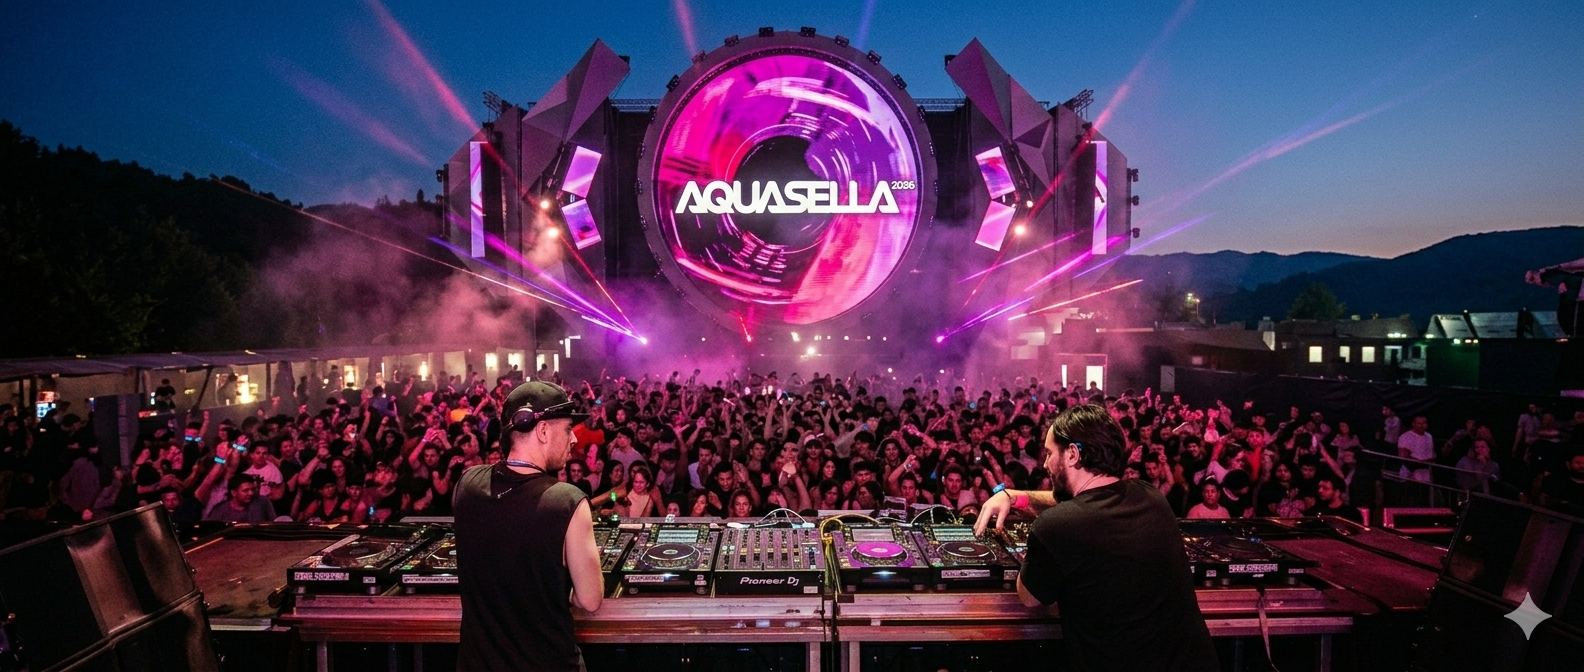
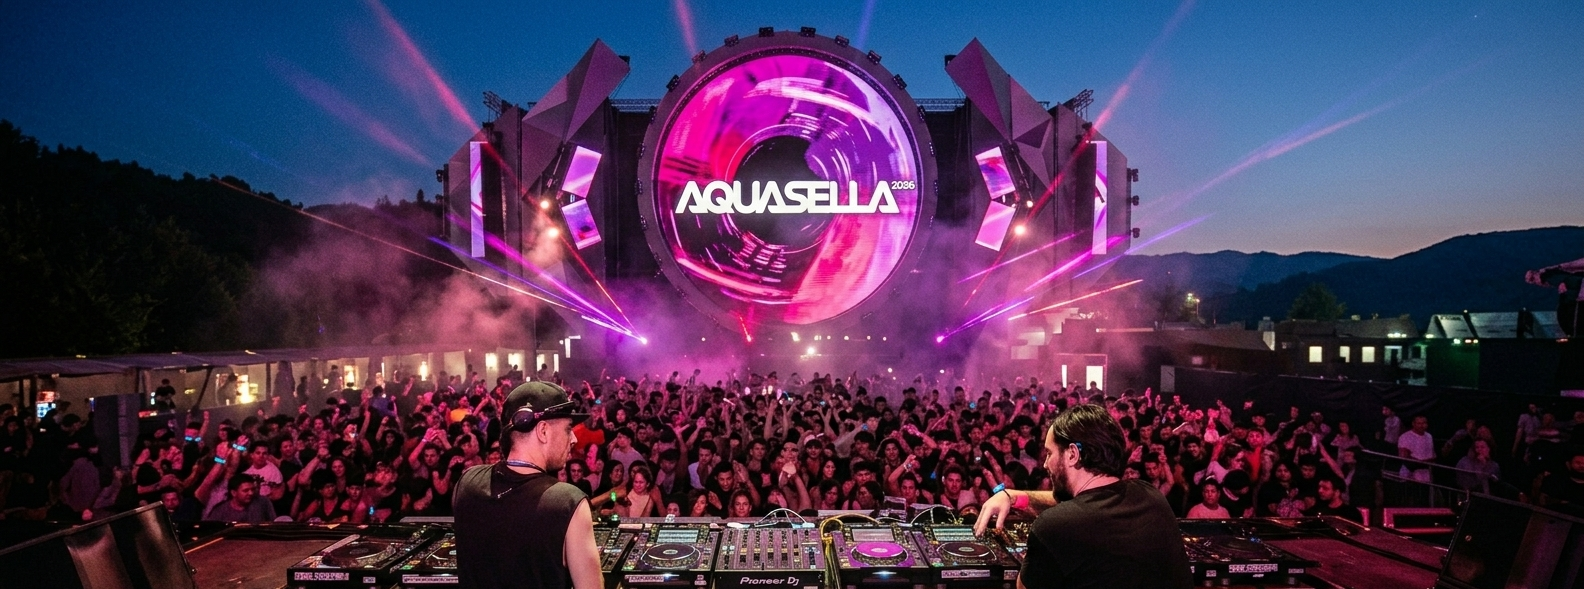
actualizar contenido y estilos para la sección del evento Aquasella 2026

diff --git a/Lenguaje de marcas/evento-aquasella.html b/Lenguaje de marcas/evento-aquasella.html
@@ -3,14 +3,17 @@
 <head>
     <meta charset="UTF-8">
     <meta name="viewport" content="width=device-width, initial-scale=1.0">
-    <title>HAPPINESS&Co - Contacto</title>
+    <title>HAPPINESS&Co - Aquasella 2026</title>
     <link rel="stylesheet" href="styles.css">
 </head>
 <body>
+
     <header class="cabecera-principal">
         <div class="contenedor-cabecera">
             <div class="logotipo">
-                <a href="index.html"><img src="assets/happines-co-blanco-rosa.jpg" alt="Logo"></a>
+                <a href="index.html">
+                    <img src="assets/happines-co-blanco-rosa.jpg" alt="Logo">
+                </a>
             </div>
             <nav class="navegacion">
                 <ul>
@@ -24,9 +27,57 @@
         </div>
     </header>
 
+    <main class="seccion-detalle-evento">
+        <div class="contenedor-principal">
+            
+            <div class="columna-contenido">
+                <h2 class="titulo-seccion">Aquasella 2026</h2>
+                
+                <div class="contenedor-imagen-principal">
+                    <img src="assets/aquasella.png" alt="Aquasella Festival" class="imagen-grande-evento">
+                </div>
+
+                <div class="texto-informativo">
+                    <h3>Sobre el Festival</h3>
+                    <p>Aquasella nació en 1997 en Arriondas impulsado por La Real Producciones para crear un espacio de electrónica en el norte de España. Lo que empezó como un evento pequeño creció hasta ser uno de los festivales más importantes de Europa con identidad propia. Ha mantenido una línea artística coherente que mezcla artistas nacionales e internacionales siguiendo la evolución del género durante casi tres décadas en un entorno natural singular. Con el tiempo pasó a ser un festival de gran escala con una comunidad fiel de miles de asistentes de distintos países. </p>
+                    <p>En 2026 celebra su 29ª edición consolidado por el éxito de sus últimos sold out y una trayectoria basada en la experiencia y la pasión por la música electrónica, siendo hoy un punto donde conviven historia y futuro.</p>
+                </div>
+            </div>
+
+            <aside class="columna-ficha-tecnica">
+                <div class="tarjeta-resumen-compra">
+                    <h3 class="titulo-info-extra">Detalles del Evento</h3>
+                    <hr class="separador-detalle">
+                    
+                    <div class="dato-ficha">
+                        <p class="etiqueta-ficha">FECHA</p>
+                        <p class="valor-ficha">20 MAY - 24 MAY 2026</p>
+                    </div>
+
+                    <div class="dato-ficha">
+                        <p class="etiqueta-ficha">UBICACIÓN</p>
+                        <p class="valor-ficha">Arriondas, Asturias</p>
+                    </div>
+
+                    <div class="dato-ficha">
+                        <p class="etiqueta-ficha">CATEGORÍA</p>
+                        <p class="valor-ficha" style="color: #ba007c;">Música Electrónica</p>
+                    </div>
+
+                    <div class="bloque-precio-compra">
+                        <p class="precio-actual">DESDE 85,00€</p>
+                        <a href="#" class="boton-comprar-tickets">COMPRAR ENTRADAS</a>
+                    </div>
+                </div>
+            </aside>
+
+        </div>
+    </main>
+
     <footer class="pie-pagina">
         <img src="assets/happines-co-negro-blanco.jpg" class="logo-pie">
         <p style="font-size: 10px; letter-spacing: 1px;">PROYECTO REALIZADO POR CARLOS GONZÁLEZ ÁLVAREZ</p>
     </footer>
+
 </body>
 </html>

diff --git a/Lenguaje de marcas/styles.css b/Lenguaje de marcas/styles.css
@@ -503,3 +503,114 @@ body {
 .btn-enviar:hover {
     background-color: #960064;
 }
+
+.seccion-detalle-evento {
+    margin-top: 30px;
+}
+
+.columna-contenido {
+    flex: 2.5;
+}
+
+.contenedor-imagen-principal {
+    width: 100%;
+    margin-bottom: 30px;
+}
+
+.imagen-grande-evento {
+    width: 100%;
+    border-radius: 12px;
+    box-shadow: 0 5px 20px rgba(0,0,0,0.1);
+}
+
+.texto-informativo h3 {
+    font-family: 'Asenine';
+    font-size: 28px;
+    color: #333;
+    margin-top: 30px;
+    text-transform: uppercase;
+}
+
+.texto-informativo p {
+    line-height: 1.8;
+    margin-bottom: 15px;
+    color: #666;
+}
+
+/* Sidebar de compra */
+.columna-ficha-tecnica {
+    flex: 1;
+}
+
+.tarjeta-resumen-compra {
+    background-color: #f9f9f9;
+    padding: 30px;
+    border-radius: 10px;
+    border: 1px solid #eee;
+    position: sticky;
+    top: 100px;
+}
+
+.titulo-info-extra {
+    font-family: 'Asenine';
+    text-align: center;
+    margin: 0 0 10px 0;
+    font-size: 22px;
+}
+
+.separador-detalle {
+    border: 0;
+    border-top: 1px solid #ddd;
+    margin-bottom: 25px;
+}
+
+.dato-ficha {
+    margin-bottom: 20px;
+}
+
+.etiqueta-ficha {
+    font-size: 11px;
+    font-weight: bold;
+    color: #ba007c;
+    letter-spacing: 1px;
+    margin-bottom: 5px;
+}
+
+.valor-ficha {
+    font-size: 16px;
+    font-weight: bold;
+    color: #333;
+    margin: 0;
+}
+
+.bloque-precio-compra {
+    margin-top: 40px;
+    text-align: center;
+    padding-top: 20px;
+    border-top: 2px dashed #ddd;
+}
+
+.precio-actual {
+    font-size: 24px;
+    font-weight: bold;
+    color: #333;
+    margin-bottom: 15px;
+}
+
+.boton-comprar-tickets {
+    display: block;
+    background-color: #ba007c;
+    color: white;
+    text-decoration: none;
+    font-size: 14px;
+    font-weight: bold;
+    text-transform: uppercase;
+    letter-spacing: 2px;
+    padding: 15px;
+    border-radius: 4px;
+    transition: background 0.3s;
+}
+
+.boton-comprar-tickets:hover {
+    background-color: #960064;
+}
